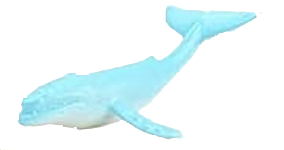
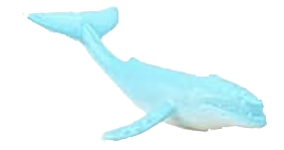
adding things

diff --git a/projects.html b/projects.html
@@ -105,7 +105,7 @@
 				transform: rotate(0deg);
 				top:200px;
 				left:100px;
-				background-image:url(bbwhale.png);
+				background-image:url(bbwhale2.png);
 
 
 			}
@@ -113,7 +113,7 @@
 				transform: rotate(10deg);
 				top:350px;
 				left:800px
-				background-image:url(bbwhale.png);
+				background-image:url(bbwhale2.png);
 
 			}
 			99%{
@@ -121,7 +121,7 @@
 				rotate(0deg);
 				left:750px;
 				top:100px;
-				background-image:url(bbwhale.png);
+				background-image:url(bbwhale2.png);
 			}
 			100%{
 				background-image:url(bbwhale.png);
@@ -191,6 +191,7 @@
 
 
 		#java1{
+			position:absolute;
 			width:150px;
 			height: 80px;
 			background-image:url(snail.png);
@@ -198,21 +199,55 @@
 			background-repeat:no-repeat;
 			margin:50px;
 			display: inline-block;
-			animation: rotation 10s infinite linear;
+			animation: rotationSnail 100s infinite linear;
 		}
-		@keyframes rotation{
+		@keyframes rotationSnail{
+			0%{
+				background-image:url(snail.png);
+				left:600px;
+				top:570px;}
 			25%{
+				background-image:url(snail.png);
 				transform: rotate(10deg);
+				left:650px;
+				top:560px;
+			}
+			26%{
+				background-image:url(snail2.png);
+				transform: rotate(10deg);
+				left:650px;
+				top:560px;
+			}
+			49%{
+				background-image:url(snail2.png);
+				transform: rotate(0deg);
+				left:520px;
+				top:570px;
 			}
 			50%{
+				background-image:url(snail2.png);
 				transform: rotate(0deg);
+				left:520px;
+				top:570px;
 			}
 			75%{
+				background-image:url(snail2.png);
 				transform: rotate(-10deg);
+				left:450px;
+				top:560px;
 			}
+			76%{background-image:url(snail.png);
+				transform: rotate(-10deg);
+				left:450px;
+				top:560px;}
 			100%{
-				transform:
-				rotate(0deg);
+				background-image:url(snail.png);
+				transform: rotate(-10deg);
+				left:450px;
+				top:560px;
+				transform: rotate(0deg);
+				left:600px;
+				top:570px;
 			}
 		}
 

diff --git a/journal.html b/journal.html
@@ -111,6 +111,10 @@ git push</p>
 	<h1>🌟Journal Entry #19🌟</h1>
 	<p>I've been working on the valentines day card for steph for a while and i finally finished it and i really like how i made the confetti come out of the popper diagonally. I wanted to make the whole thing pink and red so it looks liek kind of a lot of one color but other than that I really like it.
 	</p>
+	<br>
+	<h1>🌟Journal Entry #20🌟</h1>
+	<p>I've been working on making my projects move more and it is pretty boring but the more i do and the more it comes together the better it looks so i will continue and i think i will like it.
+	</p>
 </div>
 </body>
 </html>
